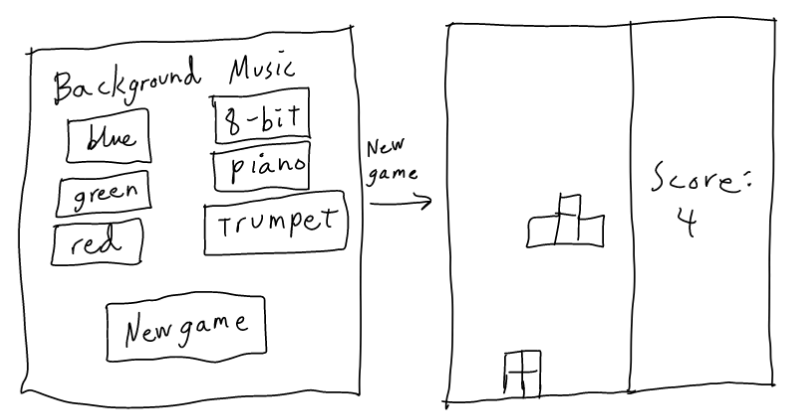
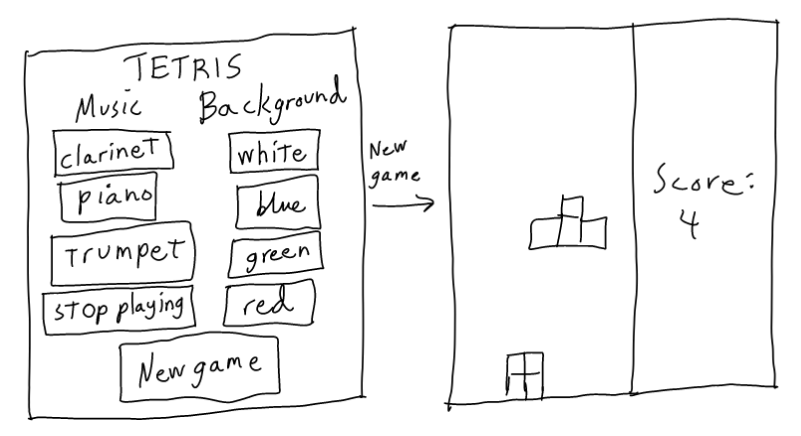
Error messages added for the music and the backgrounds. Updates to the documentation

Changed region(s): [[0.0, 0.031, 1.0, 0.9905], [0.8528, 0.4952, 0.8832, 0.5571]]

diff --git a/TetrisBetter/src/main/java/tetris/ui/TetrisUI.java b/TetrisBetter/src/main/java/tetris/ui/TetrisUI.java
@@ -1,5 +1,6 @@
 package tetris.ui;
 
+import java.io.File;
 import java.util.Timer;
 import java.util.TimerTask;
 import javafx.application.Application;
@@ -226,7 +227,12 @@ public class TetrisUI extends Application {
      */
     private void updateMenuScreen(Pane menuPane) {
         menuPane.getChildren().clear();
-        background = new Image(backgroundFile);
+        if (new File(backgroundFile.substring(5)).exists()) {
+            background = new Image(backgroundFile);
+        } else {
+            System.out.println("BackgroundImageError. Are the background images "
+                    + "located in the project folder TetrisBetter?");
+        }
         iv.setImage(background);
         menuPane.getChildren().addAll(iv, menuElements);
     }

diff --git a/TetrisBetter/src/main/java/tetris/domain/Music.java b/TetrisBetter/src/main/java/tetris/domain/Music.java
@@ -35,7 +35,7 @@ public class Music {
             playing = true;
         } catch (Exception e) {
             System.out.println("MusicFileError. Are the music files located "
-                    + "in the project folder?");
+                    + "in the project folder TetrisBetter?");
         }
     }
     

diff --git a/dokumentaatio/määrittelydokumentti.md b/dokumentaatio/määrittelydokumentti.md
@@ -3,7 +3,7 @@
 ## The purpose of this program
 In this program the user can play the classic video game Tetris. Before the game begins the player has the option to change the background image and the music that is playing (or mute it).
 
-## Progress
+## Features
 * [x] The game screen
 * [x] The menu screen
 * [x] Music
@@ -19,10 +19,10 @@ The program consists of two views:
 ### The menu screen
 The menu screen features a list of the backgrounds available and a list of the audio files that can be set to play during the game. All the options appear as buttons that can be pressed.
 
-The player can begin the game by pressing the "Start new game"-button.
+The player can begin the game by pressing the "New game" button.
 
 ### The game screen
-When the game begins the game window will appear with the chosen background. On the right of the game area there will be a score counter. The player moves the falling polygons with the arrow keys.
+When the game begins the game window will appear with the chosen background. On the right of the game area there will be a score counter. The player moves the falling polygons with the arrow keys. More information can be found in the [user manual](https://github.com/H4m5t3r/ot-harjoitustyo/blob/master/dokumentaatio/User%20manual.md#the-game).
 
 ## Game logic (Tetris explained)
 When the game is started polygons made from squares start falling down from the top of the screen and the player has to move the blocks around while they are still "in the air" and try to for complete rows. When a whole row is filled with blocks they disappear and free up space for more. If the game field is filled up with blocks to the point that part of a polygon is above the allowed game area the game ends.

diff --git a/dokumentaatio/Testing document.md b/dokumentaatio/Testing document.md
@@ -14,4 +14,8 @@ Excluding the UI the tests' row coverage is 97% and the branch coverage is 93%. 
 
 ![Jacoco report](https://github.com/H4m5t3r/ot-harjoitustyo/blob/master/dokumentaatio/kuvat/jacoco.png)
 
-## 
+## UI testing and configuration 
+The UI has been tested manually. All features listed in the [project's specifications](https://github.com/H4m5t3r/ot-harjoitustyo/blob/master/dokumentaatio/m%C3%A4%C3%A4rittelydokumentti.md) work and all visual details are displayed correctly.
+
+## Configuration on other devices
+The program works as it should on Linux devices. The program has been tested manually using a virtual Linux environment. When the program is downloaded it is important to place the music and background files in the TetrisBetter folder. If the program does not find the music files or the backgrounds it will print an error message asking the user if the files are located in the project folder.

diff --git a/dokumentaatio/User manual.md b/dokumentaatio/User manual.md
@@ -17,6 +17,6 @@ A new game can be started by clicking on "New game". Once the game is started th
 ![menu](https://github.com/H4m5t3r/ot-harjoitustyo/blob/master/dokumentaatio/kuvat/menu.png)
 
 ## The game
-When a new game is started the player can use the left and right arrow keys to move the current tetramino left and right. The player can make it go down faster by pressing the down arrow key and rotate it with the up arrow key.
+When a new game is started the player can use the left and right arrow keys to move the current tetramino left and right. The player can make it go down faster by pressing the down arrow key and rotate it with the up arrow key. When the down key is pressed it will also increase the player's score by one. When a row is filled the score will increase by 100.
 
 ![game](https://github.com/H4m5t3r/ot-harjoitustyo/blob/master/dokumentaatio/kuvat/game.png)
